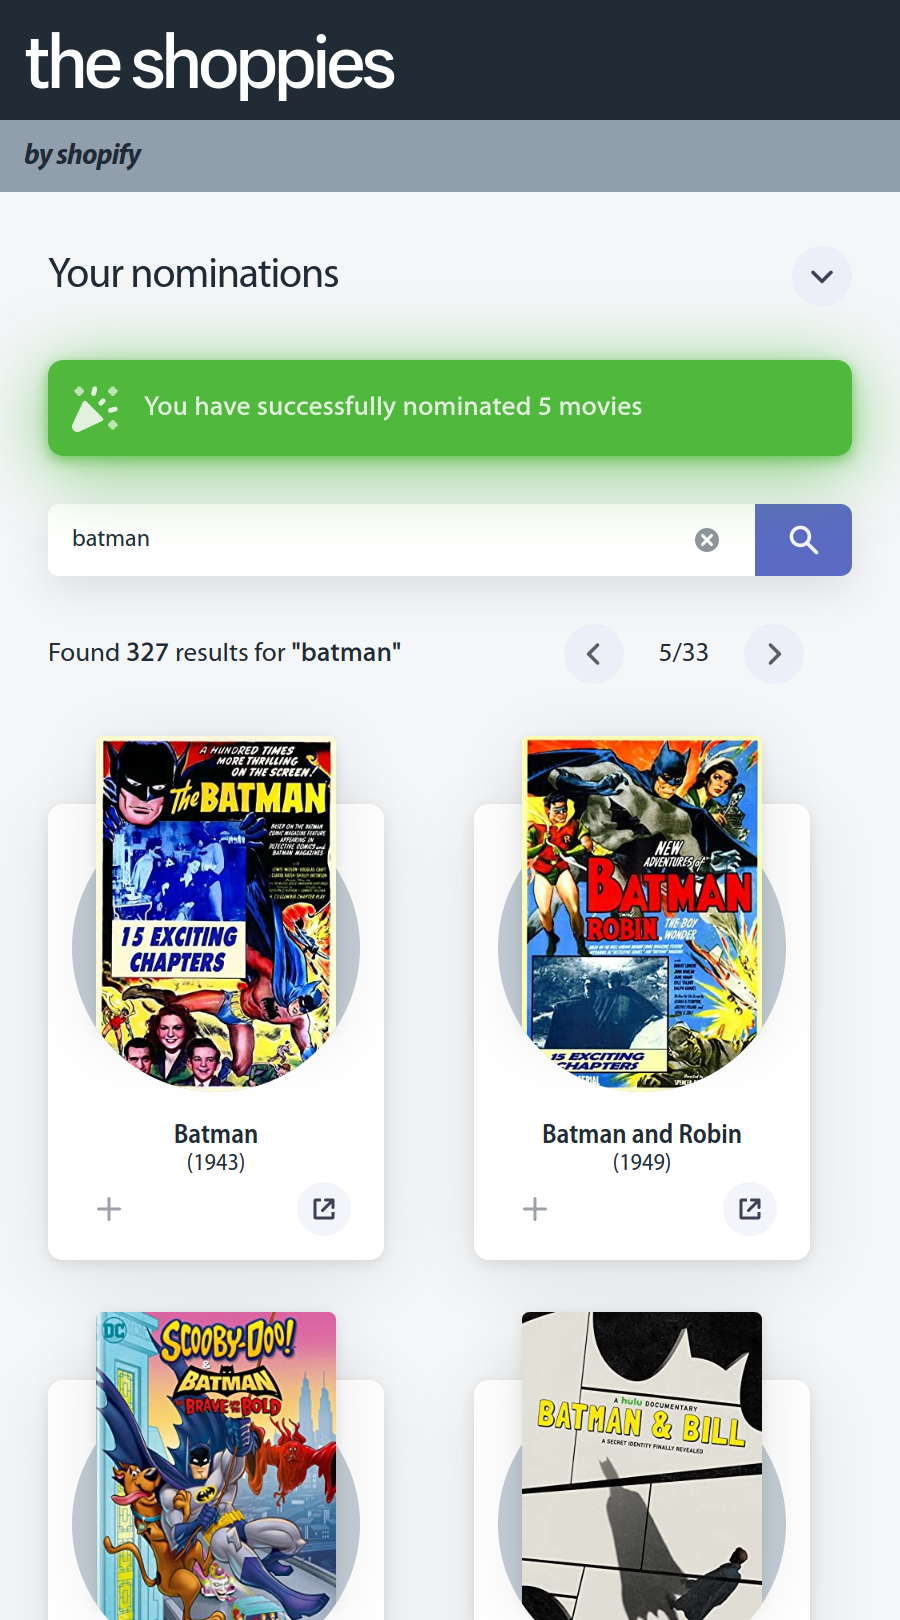
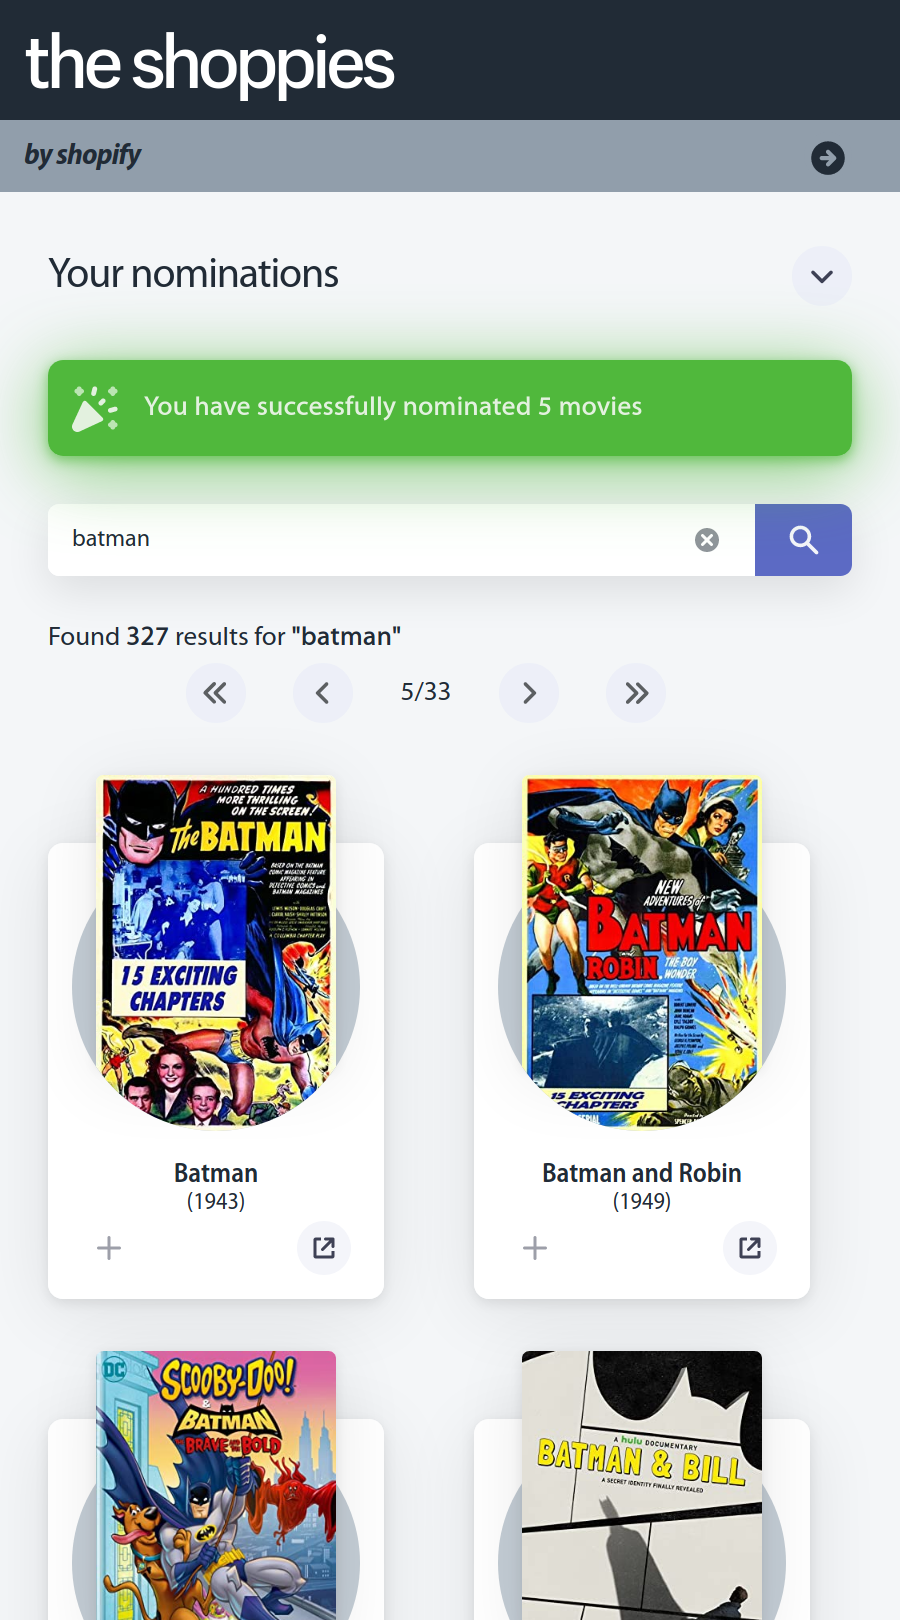
first page last page jump buttons done

diff --git a/src/app/pages/main-page/main-page.component.html b/src/app/pages/main-page/main-page.component.html
@@ -11,6 +11,10 @@
     <div class="results-text" *ngIf="searchQuery && searchResults && searchResults.totalResults">
       <h5>Found <strong>{{ searchResults.totalResults }}</strong> results for <strong>"{{ searchQuery }}"</strong></h5>
       <div class="page-buttons" *ngIf="+searchResults.totalResults > 10">
+        <button class="page-button" [ngClass]="{ 'visible' : currentPage > 1 && getTotalPages() > 2}" (click)="onChangePage(1)">
+          <div class="tooltip">First Page</div>
+          <img src="assets/icons/doubleChevronLeftMinor.svg" alt="">
+        </button>
         <button class="page-button" [ngClass]="{ 'visible' : currentPage > 1}" (click)="onChangePage(currentPage - 1)">
           <div class="tooltip">Previous Page</div>
           <img src="assets/icons/CircleChevronLeftMinor.svg" alt="">
@@ -19,6 +23,10 @@
         <button class="page-button" id="next-page"  [ngClass]="{ 'visible' : currentPage < getTotalPages()}" (click)="onChangePage(currentPage + 1)">
           <div class="tooltip">Next Page</div>
           <img src="assets/icons/CircleChevronLeftMinor.svg" alt="">
+        </button>
+        <button class="page-button" id="next-page"  [ngClass]="{ 'visible' : currentPage < getTotalPages() && getTotalPages() > 2}" (click)="onChangePage(getTotalPages())">
+          <div class="tooltip">Last Page</div>
+          <img src="assets/icons/doubleChevronLeftMinor.svg" alt="">
         </button>
       </div>
     </div>

diff --git a/src/app/pages/main-page/main-page.component.css b/src/app/pages/main-page/main-page.component.css
@@ -10,8 +10,8 @@
   margin-top: 2rem;
   font-family: var(--myriad-pro-regular);
   font-size: 1.125rem;
-  display: grid;
-  grid-template-columns: auto 10rem;
+  display: flex;
+  justify-content: space-between;
   align-items: center;
   padding-right: 2rem;
 }
@@ -68,6 +68,7 @@ app-instructions-message {
   align-items: center;
   justify-content: space-between;
   user-select: none;
+  width: 16rem;
 }
 
 .page-button {
@@ -131,11 +132,24 @@ app-instructions-message {
   transform: translateY(3rem);
 }
 
-
 @media (max-width: 1200px) {
   .main-container {
     grid-template-columns: 1fr 1fr;
     gap: 0;
+  }
+
+  .results-text {
+    flex-direction: column;
+    justify-content: center;
+  }
+
+  .results-text h5 {
+    width: 100%;
+  }
+
+  .page-buttons {
+    width: 20rem;
+    margin-top: 0.5rem;
   }
 }
 
